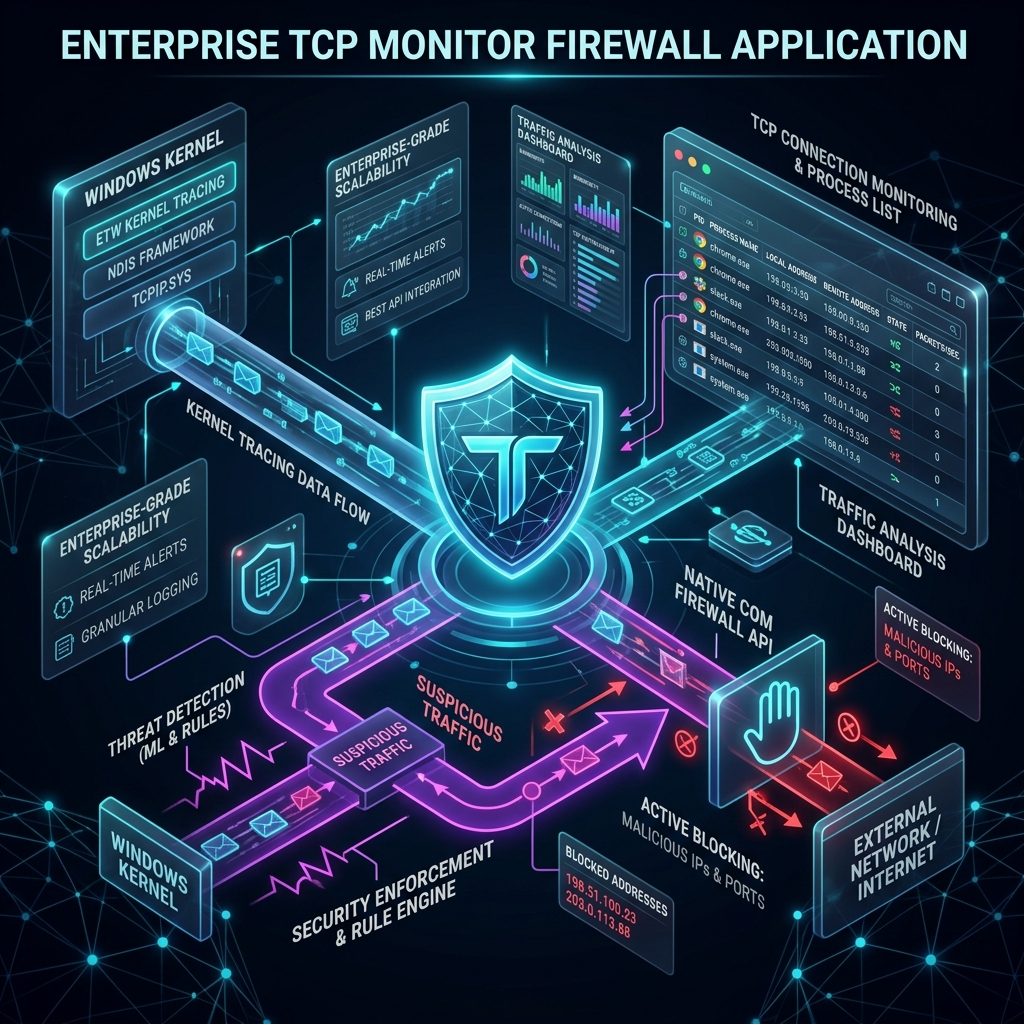
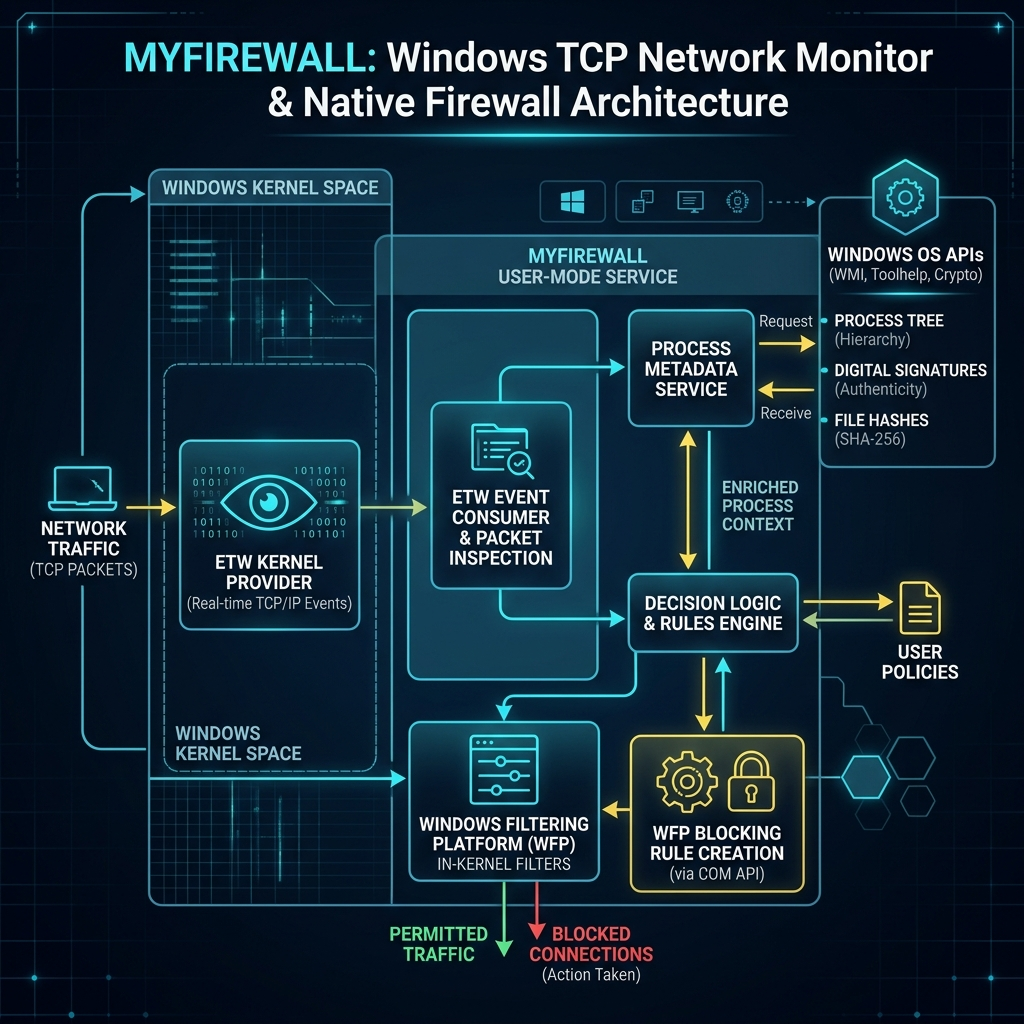
Bump version to 5.4.0, update README.md from scratch, and add brand new infographic

diff --git a/README.md b/README.md
@@ -1,57 +1,84 @@
-# 🛡️ MyFirewall: Advanced TCP Monitor & Native Firewall
+# 🛡️ MyFirewall: Advanced TCP Monitor & Native Windows Firewall
 
-**MyFirewall** is a high-performance network security suite for Windows that combines real-time ETW (Event Tracing for Windows) network monitoring with native kernel-level traffic blocking. It provides both a modern WPF Desktop experience and a lightweight, high-speed CLI for power users.
+**MyFirewall** is a high-performance network security suite for Windows that integrates real-time kernel-level ETW (Event Tracing for Windows) monitoring with native traffic blocking. It provides both a modern WPF Desktop UI and a lightweight, high-speed CLI for command-line power users.
 
 ![MyFirewall Infographic](assets/infographic.png)
 
 ## 🚀 Key Features
 
--   **Real-Time Monitoring:** Leverages ETW (Event Tracing for Windows) for zero-overhead, kernel-level capture of all established TCP connections.
--   **Native Firewall Integration:** Unlike many software firewalls that run in user-space, MyFirewall communicates directly with the **Windows Filtering Platform (WFP)** via the native `HNetCfg.FwPolicy2` COM API.
--   **Smart Blocking:** Instantly block suspicious remote IPs or entire application process trees.
--   **Automatic Enforce:** Detects and blocks new connection attempts from previously flagged malicious processes.
--   **Zero-Flicker UI:** Smart-diffing algorithm in the Desktop app ensures smooth, real-time updates without the "refresh flicker" common in network monitors.
--   **Geographical Insights:** Integrated Geo-IP lookup and reverse DNS to identify where your data is going.
--   **Low Resource Footprint:** Minimal CPU and RAM usage, designed for 24/7 background operation.
+- **Real-Time Monitoring:** Zero-overhead, kernel-level tracing of all TCP connections using Event Tracing for Windows (ETW).
+- **Native WFP Integration:** Direct integration with the Windows Filtering Platform (WFP) via the COM `HNetCfg.FwPolicy2` API. Unlike standard solutions, it does not rely on calling slow `netsh.exe` or `powershell.exe` processes.
+- **Threat Intelligence:** Process Metadata Service that queries execution path, parent process information, digital signature validation, and file timestamps using P/Invoke APIs.
+- **Smart Rule Management:** Persistent blocked IP list (`blocked.txt`) storing timestamped metadata, with sub-millisecond late-binding evaluation via COM rules.
+- **Smart-Diff WPF Layout:** Custom Wpf list diffing that prevents visual flickering when connections update in real-time.
+- **Geographical & Reverse DNS lookup:** Resolves remote hostnames and locations asynchronously with automatic TTL-based caching.
+- **Process Tree Termination:** Cleanly stops suspicious applications along with their entire process tree to prevent lingering connections.
+- **Language Sync & Widget Management:** System utilities to inspect and toggle Windows features like widgets, search box, and setting synchronization.
+
+---
 
 ## 🛠 Architecture
 
-MyFirewall is built with a focus on performance and system integrity:
+MyFirewall is designed with low overhead and strong security constraints:
 
--   **Kernel Tracing:** Uses `Microsoft.Diagnostics.Tracing.TraceEvent` to tap into the Windows Kernel network stack.
--   **Native Interop:** Direct COM Interop for Windows Firewall management, avoiding the overhead of `powershell.exe` or `netsh`.
--   **Process Tree Termination:** Robust process handling that cleans up entire process trees to prevent "zombie" network connections.
--   **Safe Elevation:** Built-in UAC auto-redirection to ensure the monitor has the necessary privileges to access kernel events and modify firewall policies.
+```
+[Network Activity] ──> [Windows Kernel (ETW)] ──> [NetworkMonitorService]
+                                                           │
+ [WPF Desktop UI]  <── [MainViewModel (Smart Diff)] <──────┼──> [ProcessMetadataService]
+       or                                                  │    (Digital Signatures)
+  [Console CLI]    <───────────────────────────────────────┘
+       │
+       └──> [FirewallManager (Direct COM Interop)] ──> [Windows Filtering Platform]
+```
+
+1. **Kernel Tracing:** Connects to Microsoft Windows kernel events to catch socket connection creations.
+2. **Metadata Evaluation:** TTL-evicted (60s) metadata caches prevent process-identity confusion when Windows recycles PIDs.
+3. **Firewall Rules:** Grouped under the `MyFirewall-` namespace, rule-evaluation occurs natively in kernel space.
+
+---
 
 ## 📥 Installation & Verification
 
-Download the latest release for your preferred environment. For security, always verify the checksums before execution.
+Download the verified release zip archives below:
 
 | Asset | Platform | SHA256 Checksum |
 | :--- | :--- | :--- |
[4 lines of base64/hex data omitted]
 
 ### Manual Verification
+Ensure the integrity of the downloaded binaries using PowerShell:
 ```powershell
-Get-FileHash MyFirewall.exe -Algorithm SHA256
+Get-FileHash release_desktop_win_x64.zip -Algorithm SHA256
 ```
+
+---
 
 ## 📖 Usage
 
-### Desktop App
-1.  Launch `MyFirewall.Desktop.exe`.
-2.  Review the live connection grid.
-3.  **Right-click** any connection to block the IP, hide the application, or terminate the process tree.
-4.  Monitor traffic stats and active firewall rules in the dashboard.
+Both applications require administrative privileges (UAC elevation) to hook into the ETW session and communicate with the native firewall COM interface.
 
-### CLI App
--   `Q`: Quit
--   `K`: Kill a process (interactive)
--   `B`: Block/Unblock IPs (interactive)
--   `I`: Manage ignored applications
--   `L`: Toggle detailed lists
--   `H`: Show help
+### Desktop WPF UI
+1. Launch `MyFirewall.Desktop.exe`.
+2. Inspect live connection stats, bandwidth activity, and the active connections grid.
+3. **Right-Click** any row to:
+   - **Block Remote IP:** Create a native block rule immediately.
+   - **Ignore Process:** Filter out the application from the monitoring panel.
+   - **Kill Process Tree:** Terminate the process and its subprocesses.
+4. Use the toolbar toggles to choose between **Connection-Driven** or **Proactive ETW Process Start** threat intelligence monitoring strategies.
+
+### Console CLI
+Run `MyFirewall.exe`. Interact using the following keyboard controls:
+- **`Q`**: Quit the monitor cleanly.
+- **`K`**: Kill an active process by PID or Name (interactive).
+- **`B`**: Manage blocked IPs list.
+- **`I`**: Manage ignored processes list.
+- **`P`**: Show Process Intelligence/Details (parent PID, path, digital signature).
+- **`T`**: Toggle Threat Intelligence strategy at runtime.
+- **`L`**: Toggle extra lists (active blocks and ignores) on the console view.
+- **`H`**: Display help drawer.
+
+---
 
 ## 📄 License
 This project is licensed under the MIT License. See the [LICENSE](LICENSE) file for details.